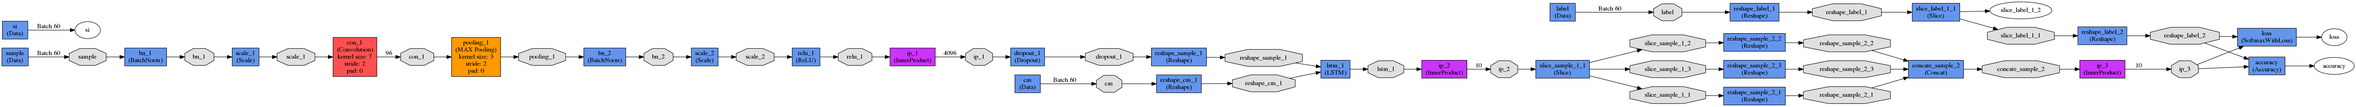
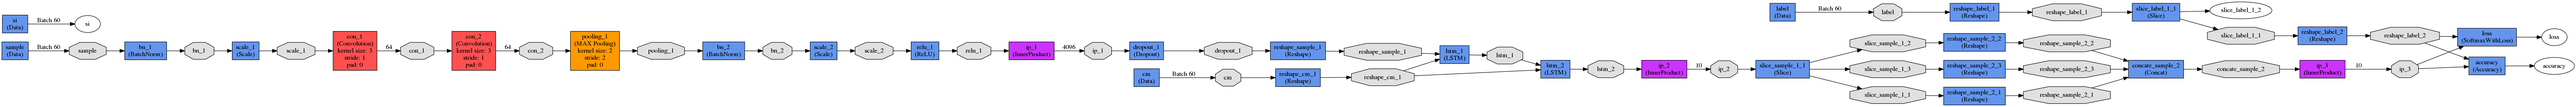
Accuracy_74.8%_1_input_front_large_5_folds_CV_model_2
conv conv pooling lstm lstm

Changed region(s): [[0.0, 0.1188, 1.0, 0.8911], [0.6555, 0.0, 0.8739, 0.2079], [0.6867, 0.802, 0.8427, 1.0]]

diff --git a/LSTM_LIP_READING/LSTM_Net_Define_Module.py b/LSTM_LIP_READING/LSTM_Net_Define_Module.py
@@ -116,18 +116,30 @@ def creatNet(DB_PREFIX,
 
     # Convolution layers 1
     net.con_1 = L.Convolution(net.scale_1,
-                                 param=[{'lr_mult': 1, 'decay_mult': 1}, {'lr_mult': 2, 'decay_mult': 0}],
-                                 convolution_param={'num_output': 96,
-                                                    'kernel_size': 7,
-                                                    'stride': 2,
-                                                    'weight_filler': {'type': 'gaussian', 'std': 0.01},
-                                                    'bias_filler': {'type': 'constant', 'value': 0.1}})
+                                 param=[{'lr_mult': 1, 'decay_mult': 1}, 
+                                        {'lr_mult': 2, 'decay_mult': 0}],
+                                 convolution_param={'num_output': 64,
+                                                    'kernel_size': 3,
+                                                    'stride': 1,
+                                                    'weight_filler': {'type': 'xavier'},
+                                                    'bias_filler': {'type': 'constant', 'value': 0}})
 
     
+    net.con_2 = L.Convolution(net.con_1,
+                                 param=[{'lr_mult': 1, 'decay_mult': 1}, 
+                                        {'lr_mult': 2, 'decay_mult': 0}],
+                                 convolution_param={'num_output': 64,
+                                                    'kernel_size': 3,
+                                                    'stride': 1,
+                                                    'weight_filler': {'type': 'xavier'},
+                                                    'bias_filler': {'type': 'constant', 'value': 0}})
+    
+    
+    
     # Pooling layer 1
-    net.pooling_1 = L.Pooling(net.con_1,
+    net.pooling_1 = L.Pooling(net.con_2,
                                  pooling_param={'pool': P.Pooling.MAX,
-                                                'kernel_size': 3,
+                                                'kernel_size': 2,
                                                 'stride': 2})
    
     
@@ -150,8 +162,8 @@ def creatNet(DB_PREFIX,
                                  param=[{'lr_mult': 1, 'decay_mult': 1},
                                         {'lr_mult': 2, 'decay_mult': 0}],
                                  inner_product_param={'num_output': 4096,
-                                                      'weight_filler': {'type': 'gaussian', 'std': 0.01},
-                                                      'bias_filler': {'type': 'constant', 'value': 0.1}})
+                                                      'weight_filler': {'type': 'xavier'},
+                                                      'bias_filler': {'type': 'constant', 'value': 0}})
     
     # Droout 1
 
@@ -199,21 +211,25 @@ def creatNet(DB_PREFIX,
 
     net.lstm_1 = L.LSTM(net.reshape_sample_1,
                         net.reshape_cm_1,
-                        recurrent_param={'num_output': 256,
-                                           'weight_filler': {'type': 'uniform', 'min':-0.01, 'max': 0.01},
-                                           'bias_filler': {'type': 'constant', 'value': 0 }})
+                        recurrent_param={'num_output': 1024,
+                                           'weight_filler': {'type': 'xavier'},
+                                           'bias_filler': {'type': 'constant', 'value': 0}})
 
    
-    
+    net.lstm_2 = L.LSTM(net.lstm_1,
+                        net.reshape_cm_1,
+                        recurrent_param={'num_output': 256,
+                                           'weight_filler': {'type': 'xavier'},
+                                           'bias_filler': {'type': 'constant', 'value': 0}})
     
     # IP 2
     
-    net.ip_2 = L.InnerProduct(net.lstm_1,
+    net.ip_2 = L.InnerProduct(net.lstm_2,
                               param=[{'lr_mult': 1, 'decay_mult': 1},
                                      {'lr_mult': 2, 'decay_mult': 0}],
                               inner_product_param={'num_output': 10,
-                                                      'weight_filler': {'type': 'gaussian', 'std': 0.01},
-                                                      'bias_filler': {'type': 'constant', 'value': 0.1},
+                                                      'weight_filler': {'type': 'xavier'},
+                                                      'bias_filler': {'type': 'constant', 'value': 0},
                                                       'axis':2})
     
     # Slice train ip_2
@@ -282,8 +298,8 @@ def creatNet(DB_PREFIX,
                               param=[{'lr_mult': 1, 'decay_mult': 1},
                                      {'lr_mult': 2, 'decay_mult': 0}],
                               inner_product_param={'num_output': 10,
-                                                      'weight_filler': {'type': 'gaussian', 'std': 0.01},
-                                                      'bias_filler': {'type': 'constant', 'value': 0.1},
+                                                      'weight_filler': {'type': 'xavier'},
+                                                      'bias_filler': {'type': 'constant', 'value': 0},
                                                       'axis':1})
     
     

diff --git a/LSTM_LIP_READING/LIP_READING_TRAIN.py b/LSTM_LIP_READING/LIP_READING_TRAIN.py
@@ -144,13 +144,11 @@ def main ():
     DB_PREFIX = os.path.join(working_dir, 'Experiment/Database', input_mode)  
     DB_PREFIX = DB_PREFIX + '/'
     
-    caffe.set_device(0)
+
     caffe.set_device(1)
     caffe.set_device(2)
     caffe.set_device(3)
-    caffe.set_device(4)
-    caffe.set_device(5)
-    caffe.set_device(6)
+
     caffe.set_device(7)
     caffe.set_mode_gpu()
 
